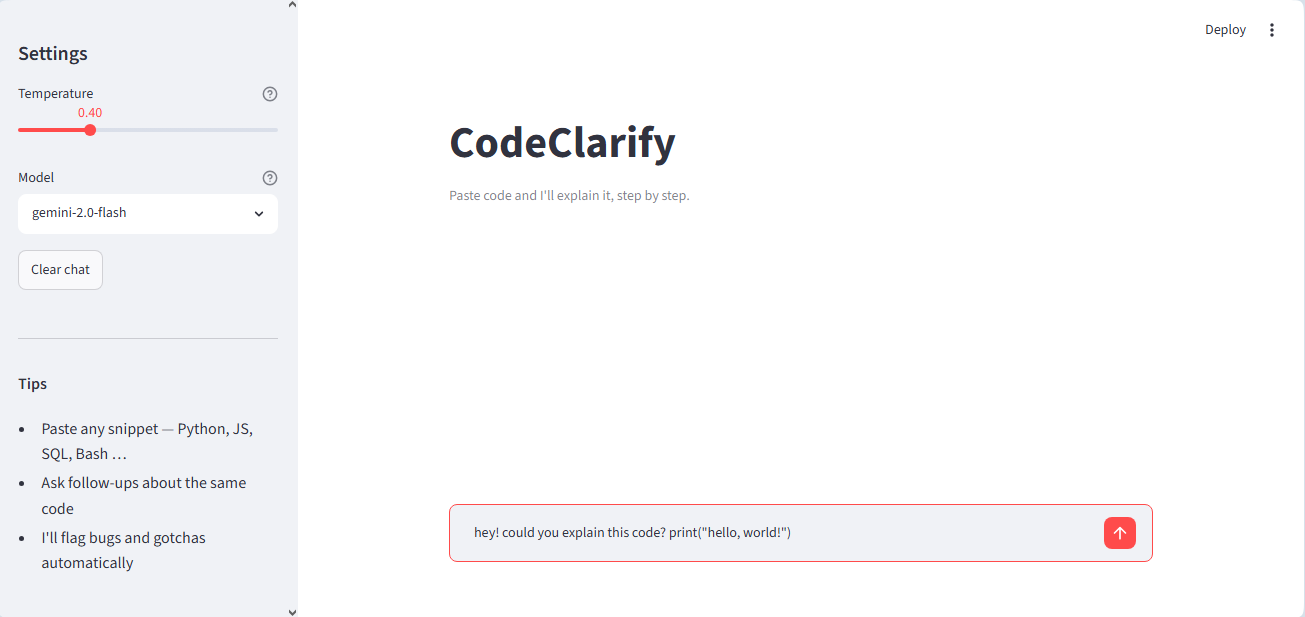
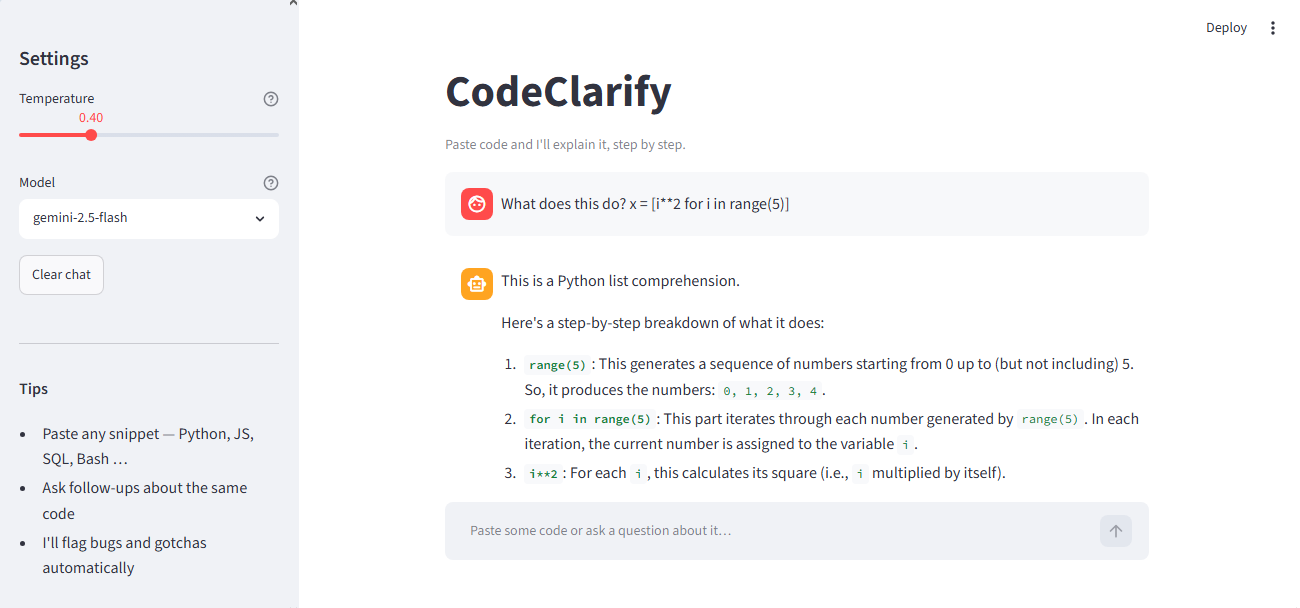
fixed mistakes

diff --git a/llm_service.py b/llm_service.py
@@ -1,11 +1,16 @@
 """
 Backend for CodeClarify — a focused code-explanation assistant.
 
-Model choice: Gemini 2.0 Flash (hosted)
-  Justification: free tier, ~500 ms first-token latency, strong on
-  short-to-medium code snippets, no local GPU required. Trade-off:
-  requires an API key and sends code to Google's servers, whereas
-  Ollama keeps data local but needs a capable machine.
+Model choice: Gemini 2.5 Flash (hosted)
+  Justification: generous free tier, strong on short-to-medium code
+  snippets, no local GPU required. Trade-off: requires an API key and
+  sends code to Google's servers, whereas Ollama keeps data local but
+  needs a capable machine.
+
+  Note: Gemini model names get retired periodically (gemini-1.5-flash
+  and gemini-2.0-flash are both gone as of mid-2026). If you start
+  seeing 404 errors, check https://ai.google.dev/gemini-api/docs/models
+  for the current model list and update the options in app.py.
 
 Safety mitigations live in _guard_input / _guard_output.
 """
@@ -17,7 +22,7 @@ import re
 
 from dotenv import load_dotenv
 from google import genai
-from google.genai import types
+from google.genai import errors, types
 
 load_dotenv()
 
@@ -72,7 +77,7 @@ class ChatService:
     """Holds conversation state and talks to Gemini."""
 
     def __init__(self, model: str | None = None, temperature: float = 0.4) -> None:
-        self.model = model or os.environ.get("MODEL", "gemini-2.0-flash")
+        self.model = model or os.environ.get("MODEL", "gemini-2.5-flash")
         self.temperature = temperature
         self.history: list[dict[str, str]] = []
         self.total_input_tokens: int = 0
@@ -131,6 +136,18 @@ class ChatService:
             max_output_tokens=1024,
         )
 
+    def _format_error(self, e: Exception) -> str:
+        """Turn an API/network exception into a user-facing chat message."""
+        if isinstance(e, errors.APIError):
+            return (
+                f"⚠️ **{self.model}** returned error {e.code} ({e.status}): "
+                f"{e.message}\n\n"
+                "Google periodically retires Gemini model versions — try "
+                "another model in the sidebar, or check "
+                "https://ai.google.dev/gemini-api/docs/models for current names."
+            )
+        return f"⚠️ Couldn't reach the model: {e}"
+
     def send(self, user_text: str) -> str:
         """Send one user turn and return the assistant's reply (blocking)."""
         blocked = self._guard_input(user_text)
@@ -142,11 +159,16 @@ class ChatService:
 
         self.history.append({"role": "user", "content": user_text})
 
-        response = self._client.models.generate_content(
-            model=self.model,
-            contents=self._build_contents(),
-            config=self._gen_config(),
-        )
+        try:
+            response = self._client.models.generate_content(
+                model=self.model,
+                contents=self._build_contents(),
+                config=self._gen_config(),
+            )
+        except Exception as e:  # noqa: BLE001 - surface any API/network failure to the user
+            reply = self._format_error(e)
+            self.history.append({"role": "assistant", "content": reply})
+            return reply
 
         meta = response.usage_metadata
         if meta:
@@ -154,6 +176,8 @@ class ChatService:
             self.total_output_tokens += meta.candidates_token_count or 0
 
         reply = self._guard_output(response.text or "")
+        if not reply.strip():
+            reply = "_(The model returned an empty response — try rephrasing your question.)_"
         self.history.append({"role": "assistant", "content": reply})
         return reply
 
@@ -169,18 +193,28 @@ class ChatService:
         self.history.append({"role": "user", "content": user_text})
 
         accumulated: list[str] = []
-        for chunk in self._client.models.generate_content_stream(
-            model=self.model,
-            contents=self._build_contents(),
-            config=self._gen_config(),
-        ):
-            if chunk.text:
-                accumulated.append(chunk.text)
-                yield chunk.text
-            meta = chunk.usage_metadata
-            if meta:
-                self.total_input_tokens += meta.prompt_token_count or 0
-                self.total_output_tokens += meta.candidates_token_count or 0
+        try:
+            for chunk in self._client.models.generate_content_stream(
+                model=self.model,
+                contents=self._build_contents(),
+                config=self._gen_config(),
+            ):
+                if chunk.text:
+                    accumulated.append(chunk.text)
+                    yield chunk.text
+                meta = chunk.usage_metadata
+                if meta:
+                    self.total_input_tokens += meta.prompt_token_count or 0
+                    self.total_output_tokens += meta.candidates_token_count or 0
+        except Exception as e:  # noqa: BLE001 - surface any API/network failure to the user
+            error_text = self._format_error(e)
+            accumulated.append(error_text)
+            yield error_text
+
+        if not accumulated:
+            note = "_(The model returned an empty response — try rephrasing your question.)_"
+            accumulated.append(note)
+            yield note
 
         reply = self._guard_output("".join(accumulated))
         self.history.append({"role": "assistant", "content": reply})

diff --git a/app.py b/app.py
@@ -26,9 +26,10 @@ with st.sidebar:
     )
     model = st.selectbox(
         "Model",
-        ["gemini-2.0-flash", "gemini-1.5-flash"],
+        ["gemini-2.5-flash", "gemini-2.5-flash-lite"],
         index=0,
-        help="gemini-2.0-flash is faster; gemini-1.5-flash may be more verbose.",
+        help="gemini-2.5-flash gives more thorough explanations; "
+             "gemini-2.5-flash-lite is faster and cheaper.",
     )
     if st.button("Clear chat"):
         st.session_state.pop("service", None)
@@ -50,6 +51,7 @@ if "messages" not in st.session_state:
 
 service: ChatService = st.session_state.service
 service.temperature = temperature
+service.model = model
 
 for msg in st.session_state.messages:
     with st.chat_message(msg["role"]):